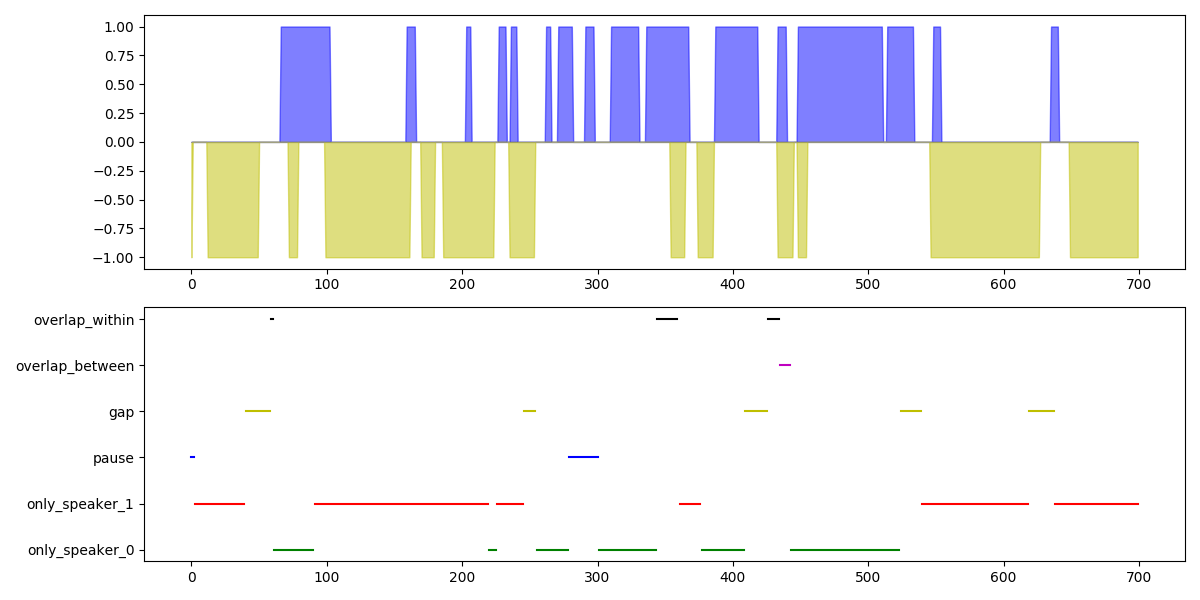
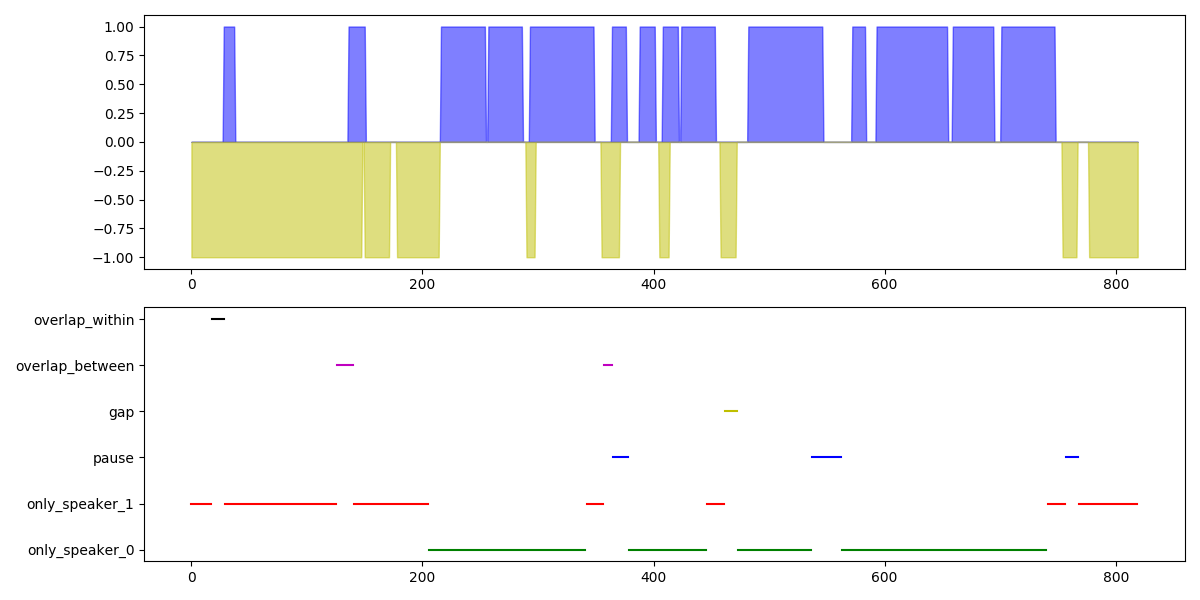
5label images

diff --git a/_drafts/turntaking/2019-12-03-Turn-Taking-Data.md b/_drafts/turntaking/2019-12-03-Turn-Taking-Data.md
@@ -15,6 +15,25 @@ What kinds of data are we going to work with? How to process this data? What do 
 <img src="/images/turntaking/turntaking.png" alt="ALL">
 
 
+## Conversation
+
+* Audio: spoken language
+    - 1D samples over time (fast)
+      - 2D Frequency representation over time (slower)
+          - Signal -> sum of frequencies
+          - Lossy Nyquist
+    - Prosody
+        - duration
+        - intensity
+        - pitch
+    - phonemes (slower still)
+* Text:  written language
+    - phonemes
+    - words
+    - phrases
+    - utterances / turns
+
+
 ## Input space
 
 * Audio is sampled by pressure changes in the air.
@@ -139,21 +158,98 @@ In Deep Learning it is very common to process melspectrograms, for speech, inste
 ### Pitch Semitone
 
 ### Words
-  - Glove Embedding
-    - Avg
-  - Stop Word rate
-
-### Output Space
-
-- VAD
-
-- Turn-taking Events
-
-# Datasets
+* Total Vocabulary over datasets
+* top 100 words 
+* Define stopwords ~100-300
+* Distribution of stopwords in dialogs
+* Stop Word rate
+* Glove Embedding
+  * Avg
 
 
+### Conversation
 
-### Dialog Metrics
+* Taking/Yielding Turns
+* Heuristics
+  * Minimize silence ?
+  * Minimize talking over each other ?
+  * Convey/Recieve information ?
+* Understanding and Coordinating
+  - Dance - timing
+  - Beats - duration
+  - Music - prosody
+  - Why do people like rap/spoken word? Rhymes?
+
+
+### Dialog
+
+A conversation with only 2 interlocutors. Less possabilities, Less Coordination required.
+
+* What is the context?
+    - Games
+    - Work
+    - Casual
+    - Familiarity with the other
+* What is being talked about?
+* What is the intent of the other? The joint intent of the conversation?
+* Dialog Acts/Speech Acts
+* Explanations, Questions, Statements
+* Sentiment
+
+
+I predict what you are saying by infering what I think you mean. I simultaniously associate your
+meaning to by own based on some convergence between what I intent/want and mean and what I infer
+that you intend and mean, given some notion of uncertainty I have about all preceding "objects", and
+decide on what actions to implement now or later (perhaps even what I should have implemented
+before).
+
+Close friendship: If I want you to feel good and I want you to be happy and I am willing to invest in a certain amount of energy into making that a reality and actually do it, I might like you you might be really close to me.
+
+
+Lots of associations any given moment. Lucky for us that are brains are highly parallel.
+
+### Brains
+
+* Energy Efficient
+* Evolutionary designed
+  * Purpose driven (in a sense)
+  * Traits that are favourable for gene survival (procreation by proxy), Selfish Gene
+* Generates behaviour
+  - Sapolsky
+
+The brain is very sparse
+
+* Reptile Brain / Old Brain
+* Neocortex (mammals)
+    - Homogenous
+    - Smallest unit of replication -> cortical columns
+        - Excitory cells
+        - Inhibitory cells
+        - Grid Cells
+    - Numenta (Thousand Brain Theory)
+* Units of replication
+    - Predictive
+    - Sparse
+    - NOISY <-> Noise robust
+      - unreliable
+      - chemistry
+      - cells and concentrations in biological systems are not perfect... at all.
+* Predictability -> Unsupervised Learning
+    - Movement
+    - Saccades
+    - action control
+    - Know what you are about to experience given what your are going to do.
+    - Generates lots of data
+* Dendrites & Axons
+* Connectome
+* Very many representations possible given the interconnectivety between and the number of neurons
+* One representation for each "state" in your life
+    - grid cells
+    - sparse
+
+## Output Space
+
+### Dataset Dialog Metrics
 
 <center> 
 
@@ -179,18 +275,28 @@ In Deep Learning it is very common to process melspectrograms, for speech, inste
   </div>
 </div>
 
-<b>Total</b>
+<b>Total Frames, 10ms</b>
 
 <div class='row'>
   <div class='columns'>
-    <img src="/images/turntaking/data/event_ratio_all.png" alt="ALL" style='flex: 50%; width: 99%'>
+    <img src="/images/turntaking/labels/class_states_10ms_frames.png" alt="ALL" style='flex: 50%; width: 99%'>
   </div>
   <div class='columns'>
-    <img src="/images/turntaking/data/event_ratio_all_dset.png" alt="ALL" style='flex: 50%; width: 99%'>
+    <img src="/images/turntaking/labels/class_states_10ms_frames_dset.png" alt="ALL" style='flex: 50%; width: 99%'>
   </div>
 </div>
 
-<b>Class Labels</b>
+<b>Total Frames combine overlap, 10ms</b>
+<div class='row'>
+  <div class='columns'>
+    <img src="/images/turntaking/labels/class_5states_1second_10ms_frames.png" alt="ALL" style='flex: 50%; width: 99%'>
+  </div>
+  <div class='columns'>
+    <img src="/images/turntaking/labels/class_5states_1second_10ms_frames.png" alt="ALL" style='flex: 50%; width: 99%'>
+  </div>
+</div>
+
+<b>Class Labels, 50ms frames, 1s prediction</b>
 
 <div class='row'>
   <div class='columns'>
@@ -201,13 +307,43 @@ In Deep Learning it is very common to process melspectrograms, for speech, inste
   </div>
 </div>
 
-<b>Class Label Segment</b>
+
+<b>Class Labels, 10ms frames, 1s prediction</b>
+
+<div class='row'>
+  <div class='columns'>
+    <img src="/images/turntaking/labels/class_labels_1second_10ms_frames.png" alt="ALL" style='flex: 50%; width: 99%'>
+  </div>
+  <div class='columns'>
+    <img src="/images/turntaking/labels/class_labels_1second_10ms_frames_dset.png" alt="ALL" style='flex: 50%; width: 99%'>
+  </div>
+</div>
+
+
+<b>Class Label Segment, 50ms frames, 1s prediction</b>
 
 <div class='row'>
   <div class='columns'>
     <img src="/images/turntaking/labels/class_labels_segment_vad.png" alt="ALL" style='flex: 50%; width: 99%'>
   </div>
 </div>
+
+<b>Class Labels combine overlap, 10ms frames, 1s prediction</b>
+<div class='row'>
+  <div class='columns'>
+    <img src="/images/turntaking/labels/class_5labels_1second_10ms_frames.png" alt="ALL" style='flex: 50%; width: 99%'>
+  </div>
+  <div class='columns'>
+    <img src="/images/turntaking/labels/class_5labels_1second_10ms_frames_dset.png" alt="ALL" style='flex: 50%; width: 99%'>
+  </div>
+</div>
+<div class='row'>
+  <div class='columns'>
+    <img src="/images/turntaking/labels/class_5labels_segment_vad.png" alt="ALL" style='flex: 50%; width: 99%'>
+  </div>
+</div>
+
+
 
 </center>
 

diff --git a/_drafts/turntaking/2019-12-02-Turn-Taking-Finetuning.md b/_drafts/turntaking/2019-12-02-Turn-Taking-Finetuning.md
@@ -10,6 +10,8 @@ capability on that task?
 
 <!--more-->
 
+* class prediction model
+    - overfit on swb_root takes 2 layers 80 hidden on supermodel with all features
 
 ### TODO
 1. Evaluation method for transfer learning.
@@ -28,6 +30,8 @@ capability on that task?
 
 
 #### Small update
+
+
 
 Finetune a model by training on 1 dialog, validate on another and test on a third. Below are values
 for the 10 speakers in the dataset and the finetuning (alpha) results for 20 epochs.
